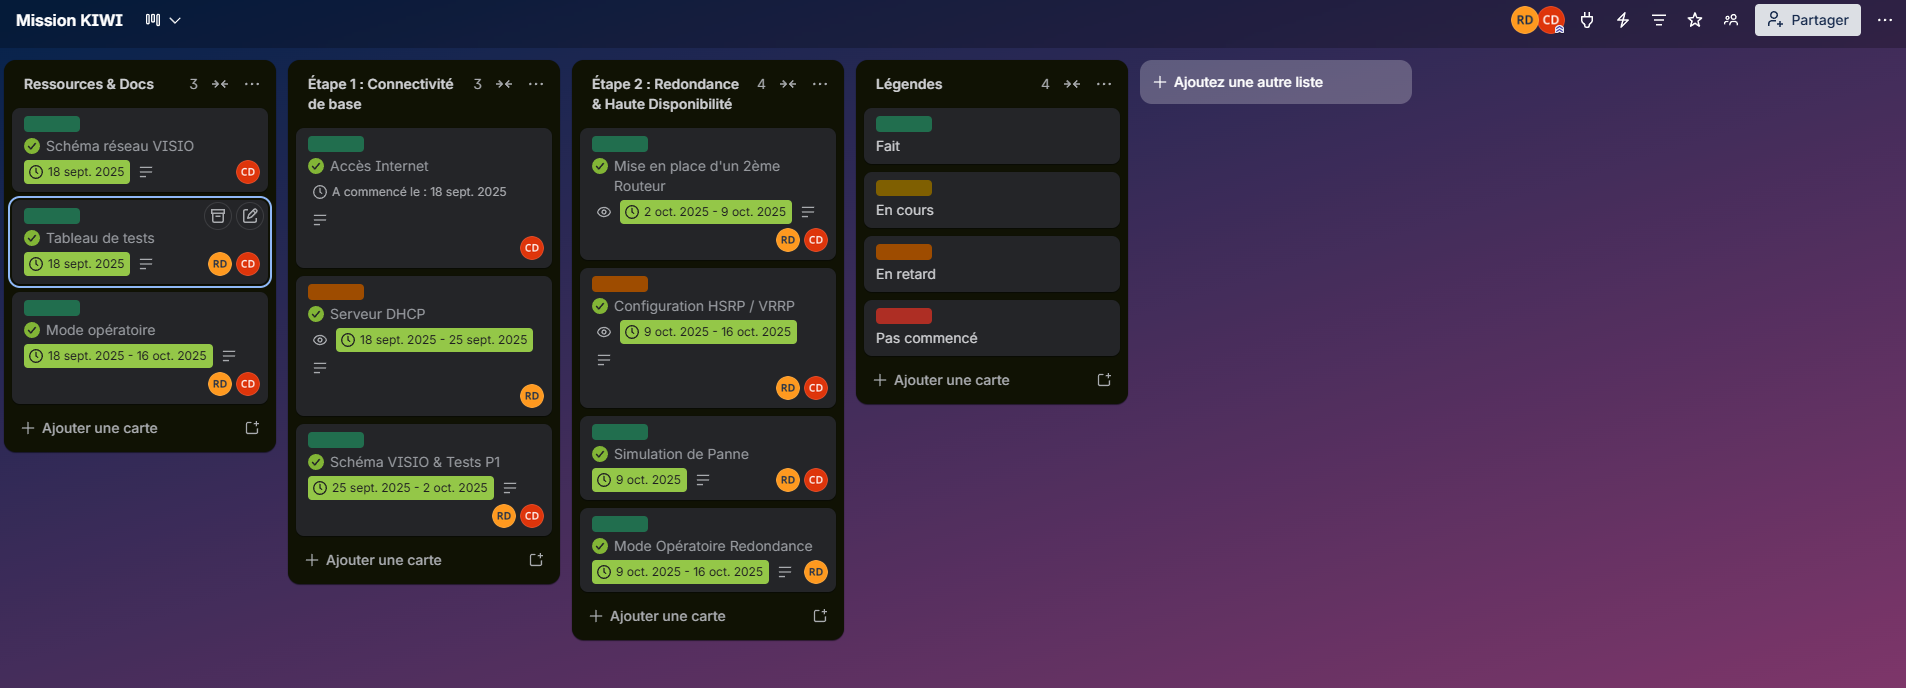
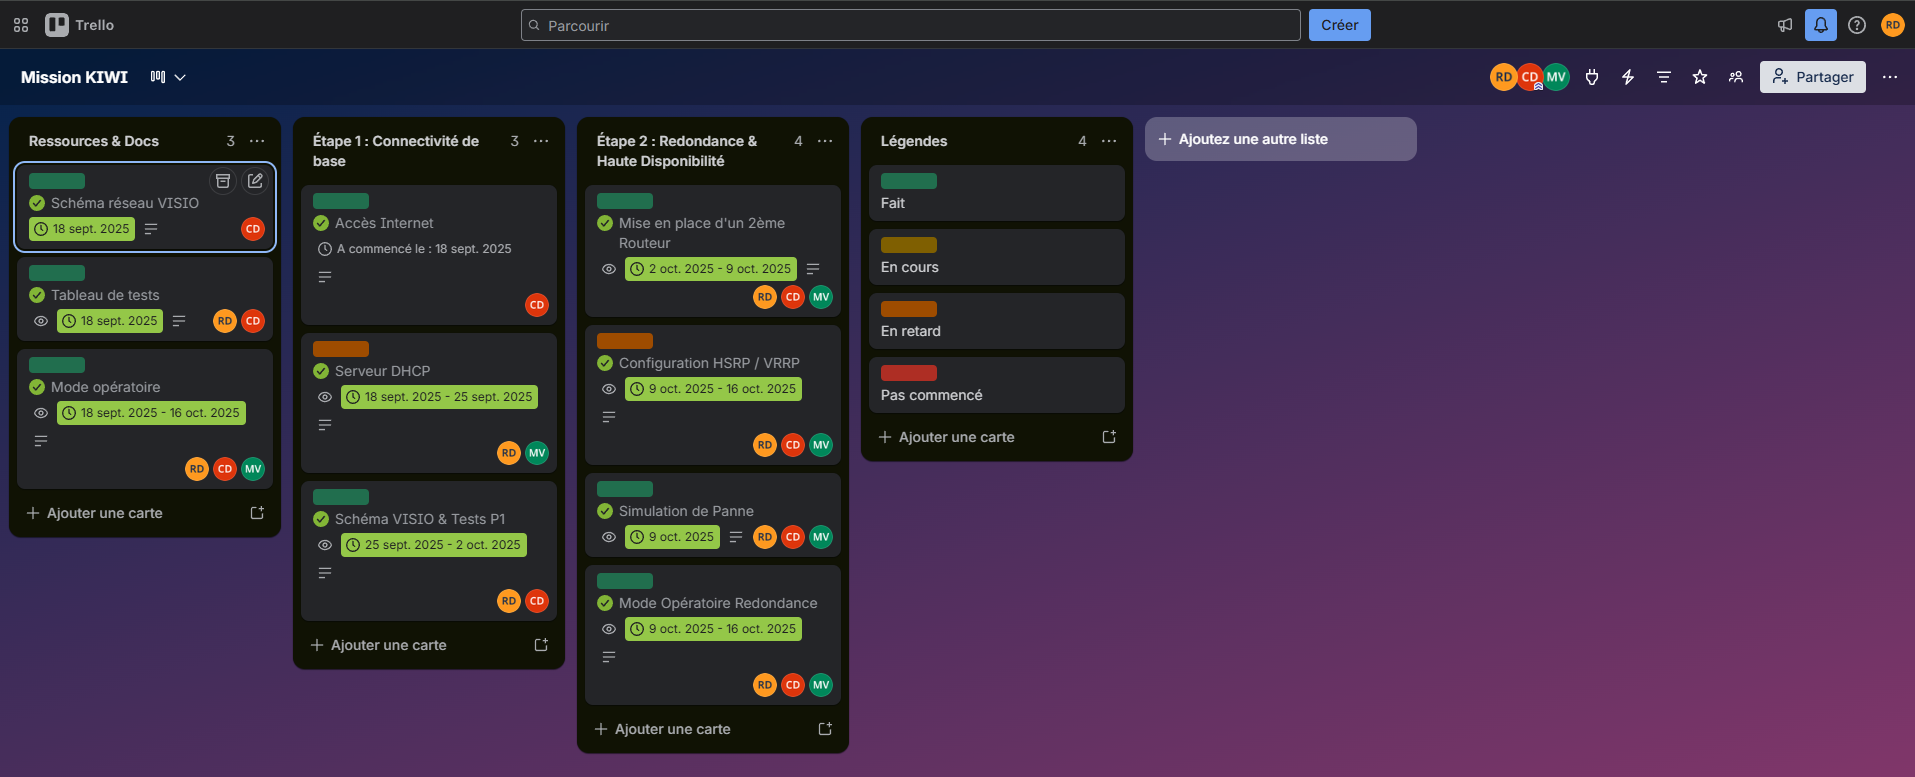
Fix image path for Trello global view in mission data

Changed region(s): [[0.0, 0.0, 1.0, 0.9767]]

diff --git a/script.js b/script.js
@@ -219,7 +219,7 @@ const missionData = {
                 competenceKey: 'mode-projet',
                 images: [
                     {
-                        src: 'KIWI.img/Travailler%20en%20mode%20projet/Vue%20globale%20Trello.png',
+                        src: 'KIWI.img/Travailler en mode projet/Vue globale Trello.png',
                         alt: 'Vue globale Trello',
                         caption: 'Vue globale Trello pour le suivi de la mission Kiwi'
                     },
